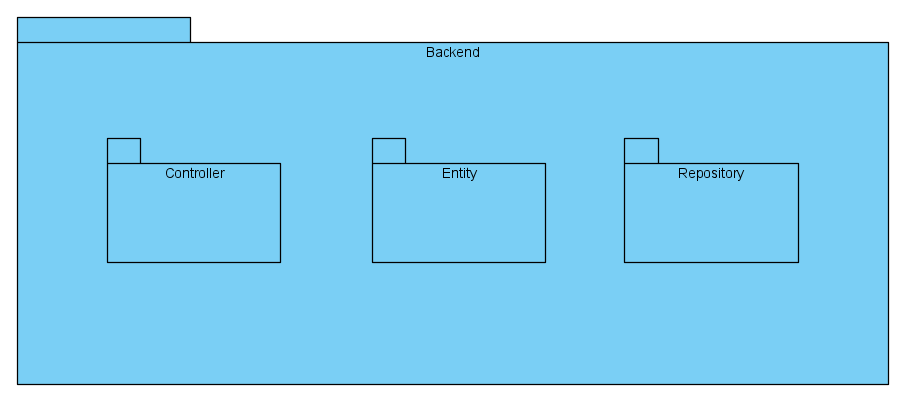
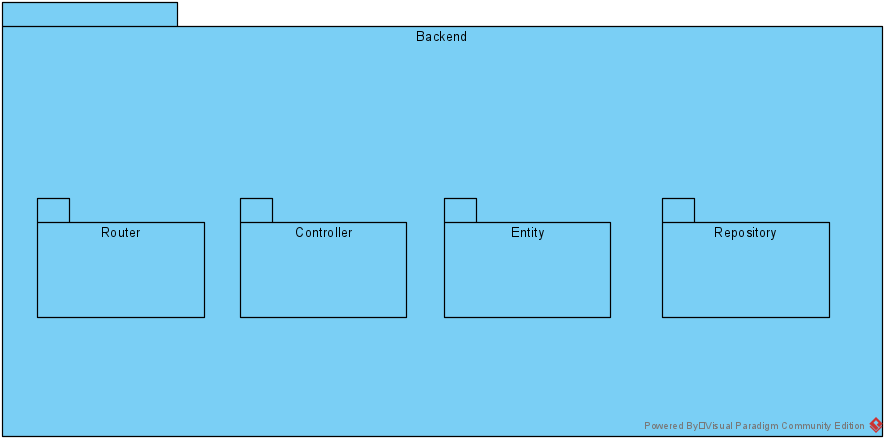
Updating Design.md

diff --git a/DesignDocument.md b/DesignDocument.md
@@ -2,9 +2,9 @@
 
 Authors: Edoardo Novara, Riccardo Salvatelli, Zhao Longsheng, Sebastian Gutierrez
 
-Date: 27/04/2022
+Date: 23/05/2022
 
-Version: 1.2
+Version: 2.0
 
 # Contents
 
@@ -29,9 +29,13 @@ We decided to use an MVC pattern with a Client-Server Architecture because the s
 
 ![](images/Backend.PNG)
 
+#### Router
+
+The controller package is in charge of the communication between the front-end and back-end by means of API REST requests.
+
 #### Controller
 
-The controller package is in charge of the communication between the front-end and back-end and performs the functionalities of EZWH application.
+The controller package is in charge of performing and taking care of the logic of the functionalities of EZWH application.
 
 #### Entity
 
@@ -42,6 +46,10 @@ The entity package contains all the entities from the EXWH model which all the d
 This package is composed by repositories where each of which is related to a specific Entity. With this relation is possible to obtain the persistence for each Model class to the EZWH database.
 
 # Low level design
+
+### Router
+
+![](images/Router%20class%20diagram.jpg)
 
 ### Controller
 
